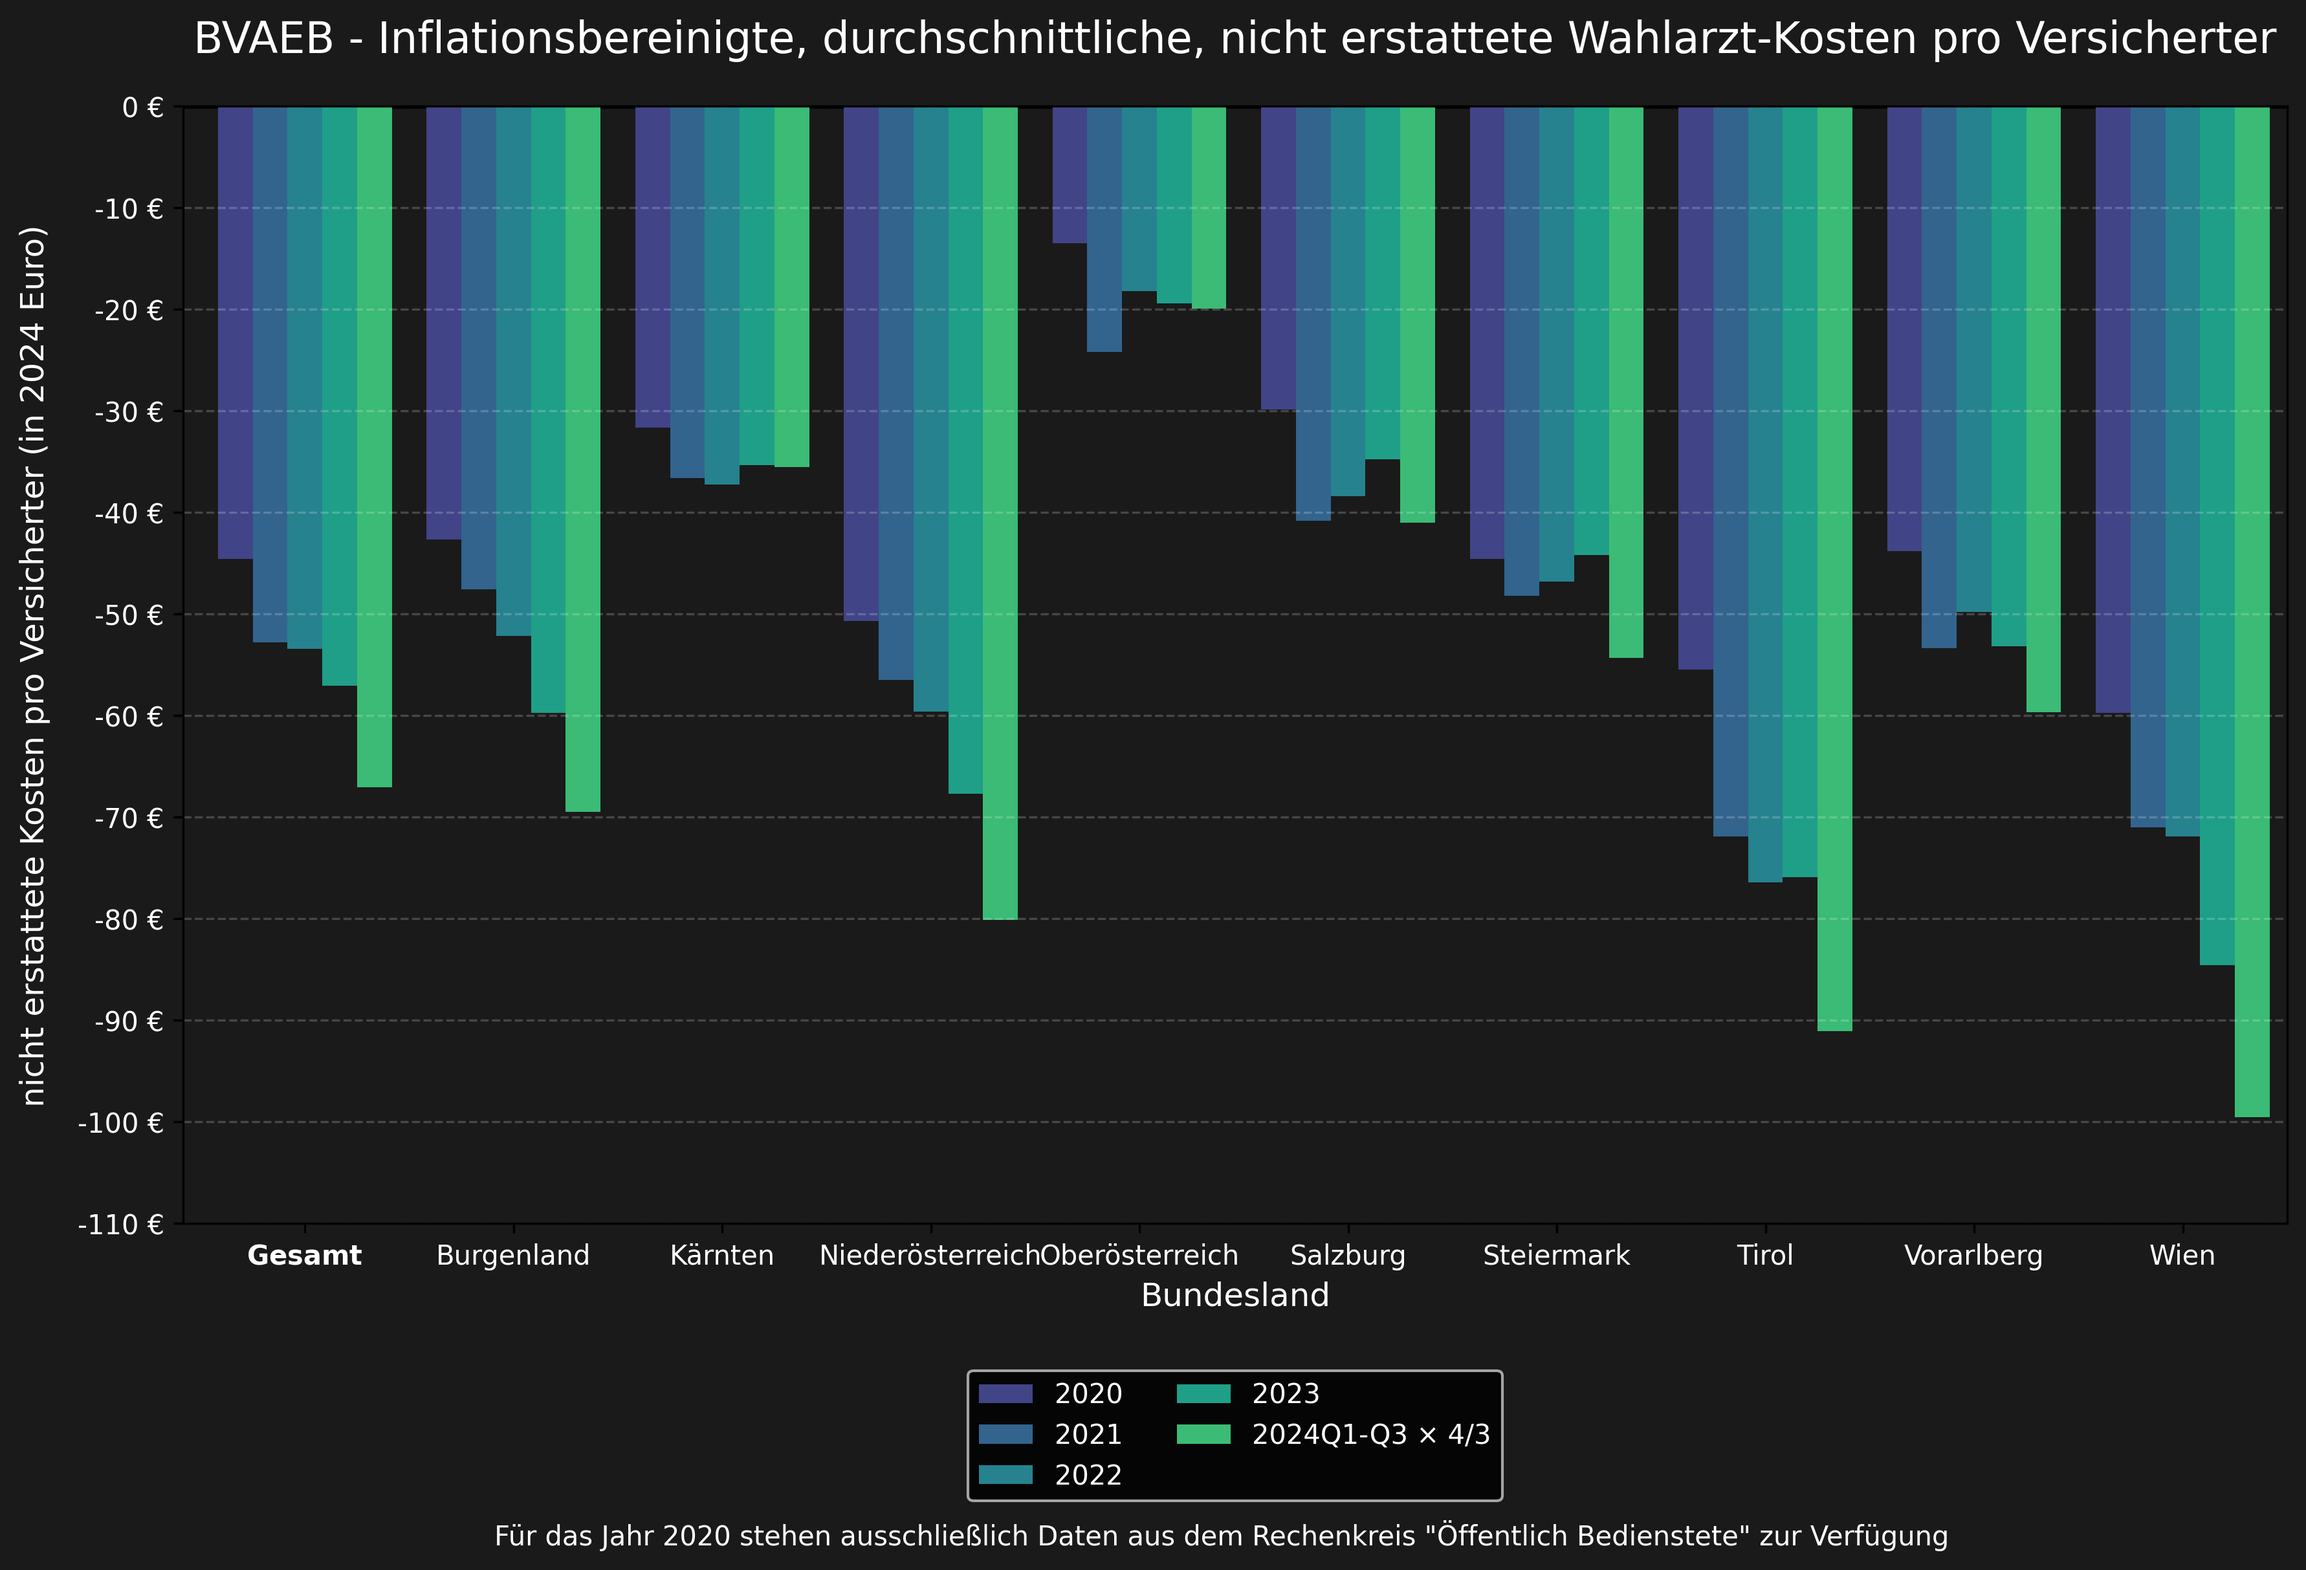
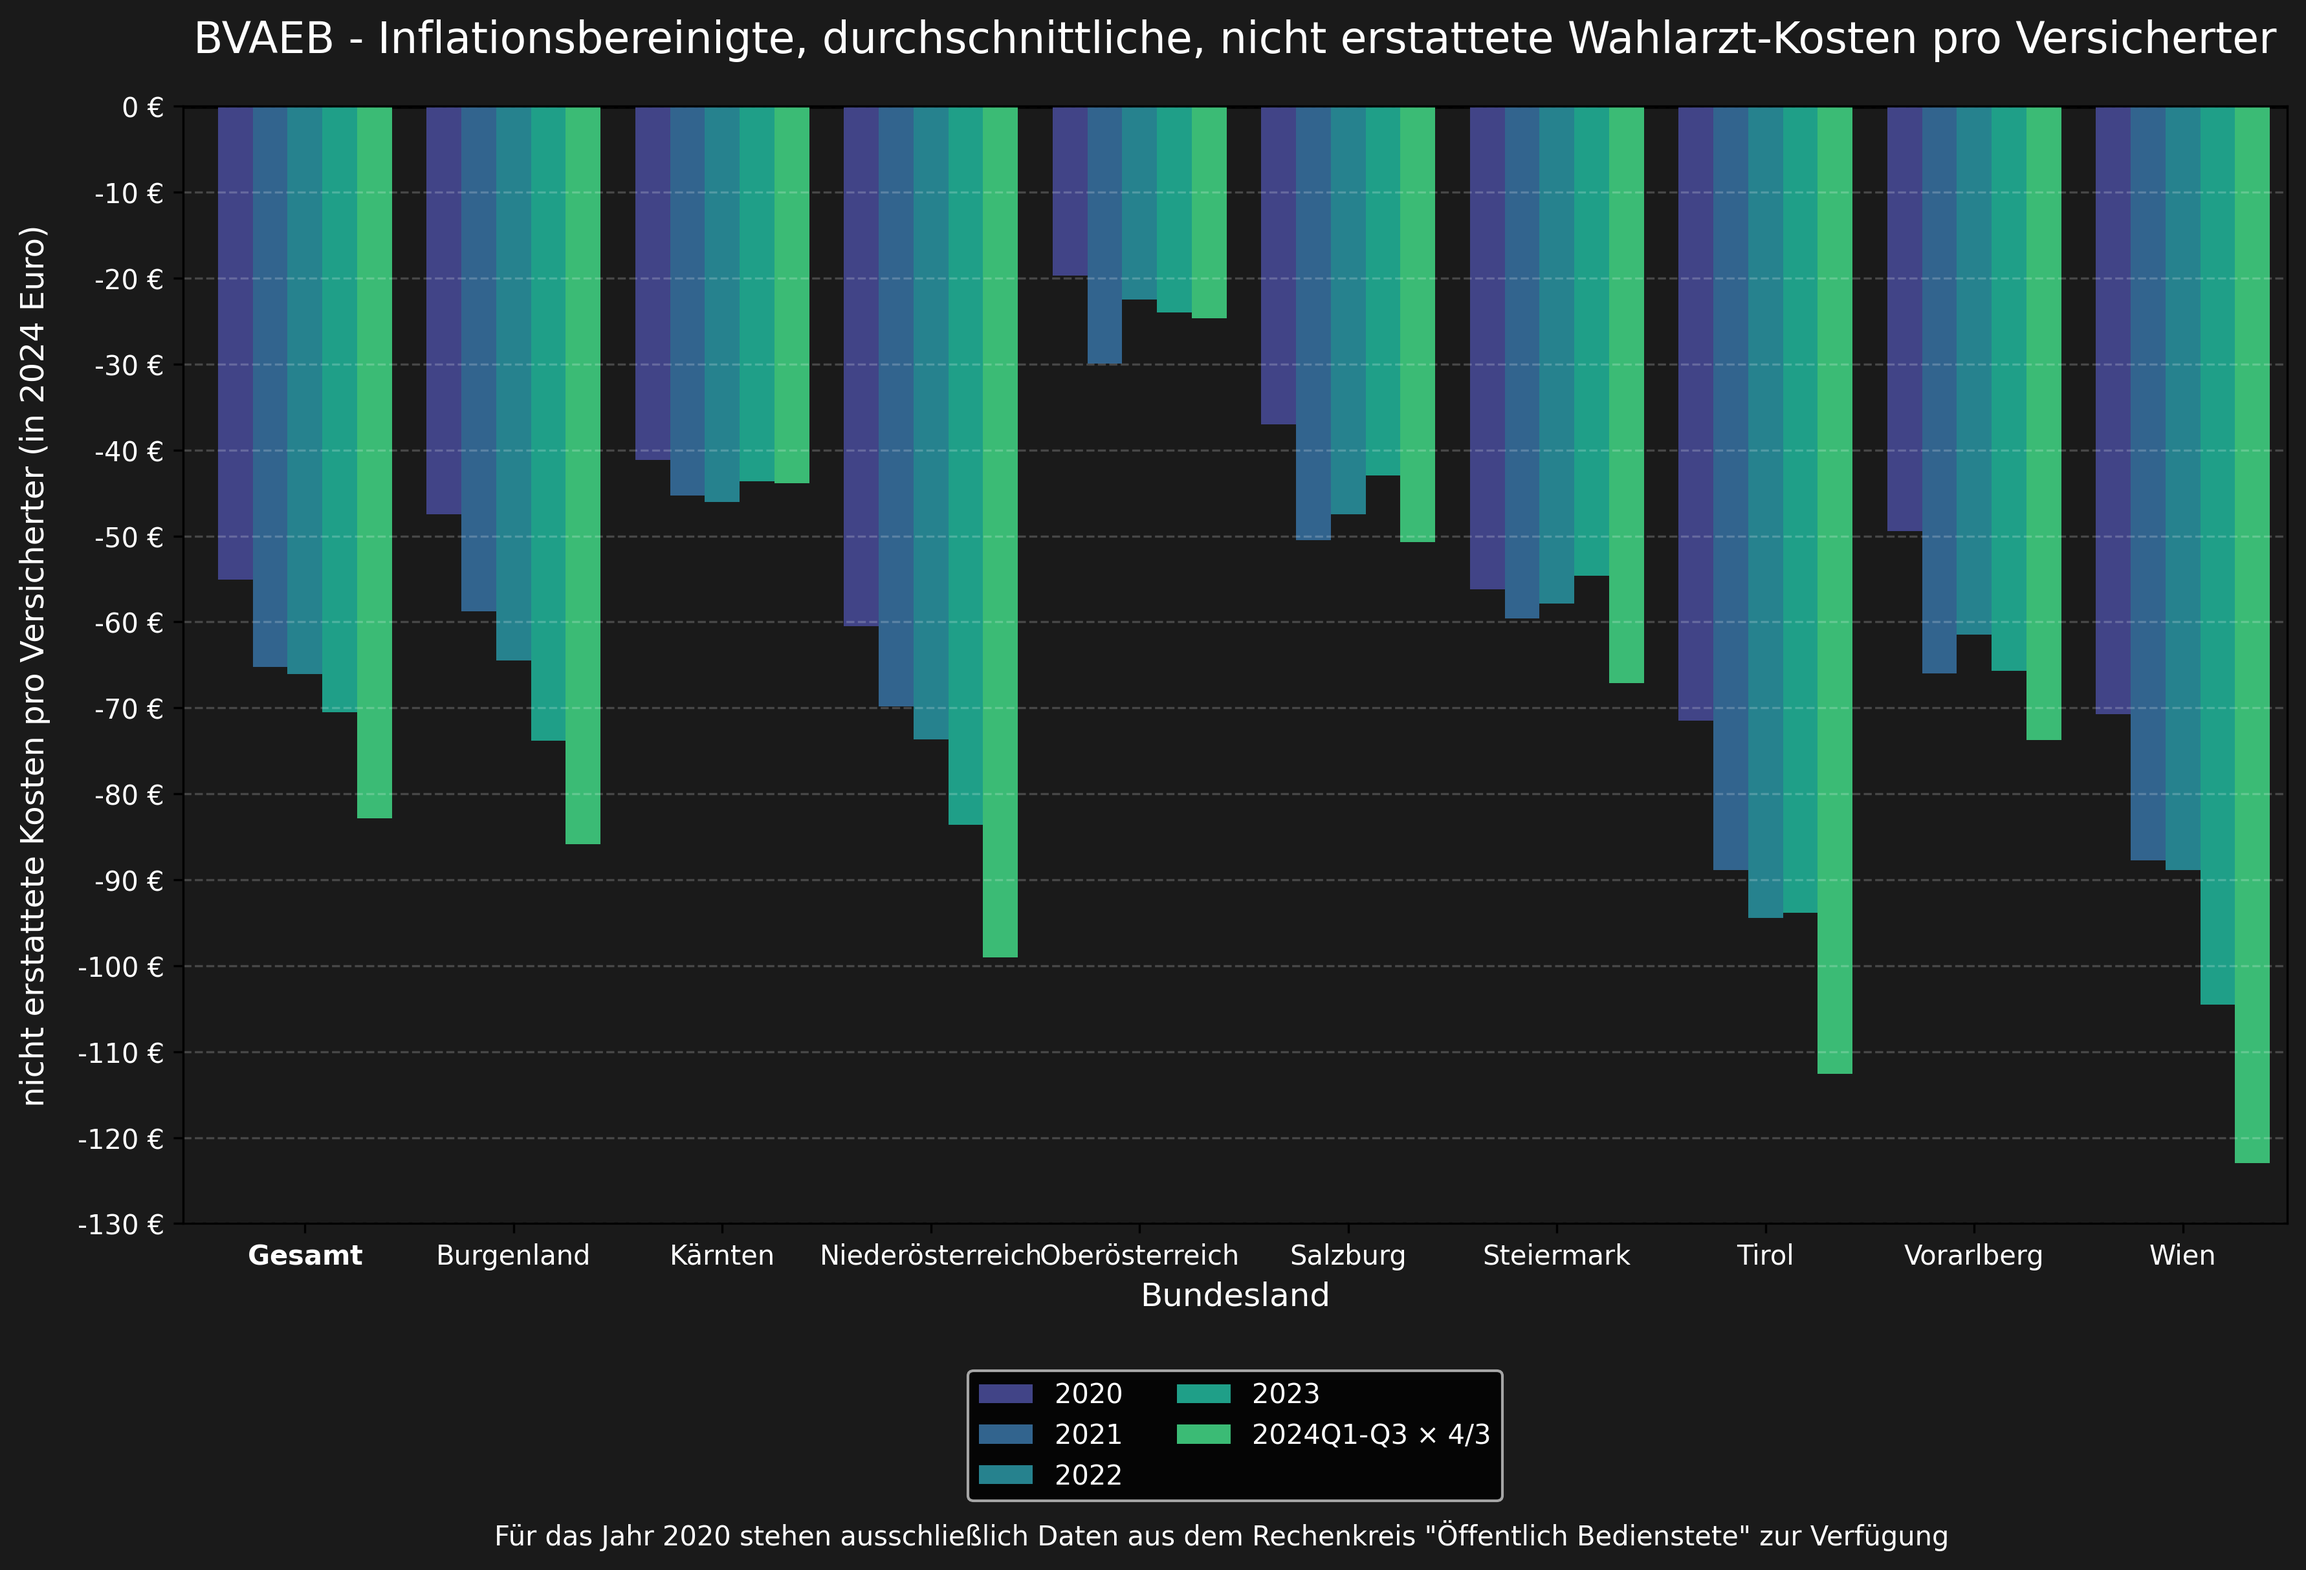
used the correct data for all länder in bvaeb_weighted.

diff --git a/visualize/plot_bvaeb_betraege_weighted.py b/visualize/plot_bvaeb_betraege_weighted.py
@@ -43,8 +43,13 @@ def read_insured_population_from_excel():
             # Read the Excel file
             df = pd.read_excel(file_path, sheet_name="Tab4", header=None)
             
-            # Get the row with insured population (B12 to K12)
-            row_data = df.iloc[11, 1:11].values
+            # Determine which row to use based on filename
+            row_index = 24 if os.path.basename(file_path) == "Jahresergebnisse_20.xlsx" else 11
+            
+            # Get the row with insured population (B12 to K12 or B25 to K25)
+            row_data = df.iloc[row_index, 1:11].values
+
+            #print(year, row_data)
             
             # Create dictionary for this year
             year_data = {
